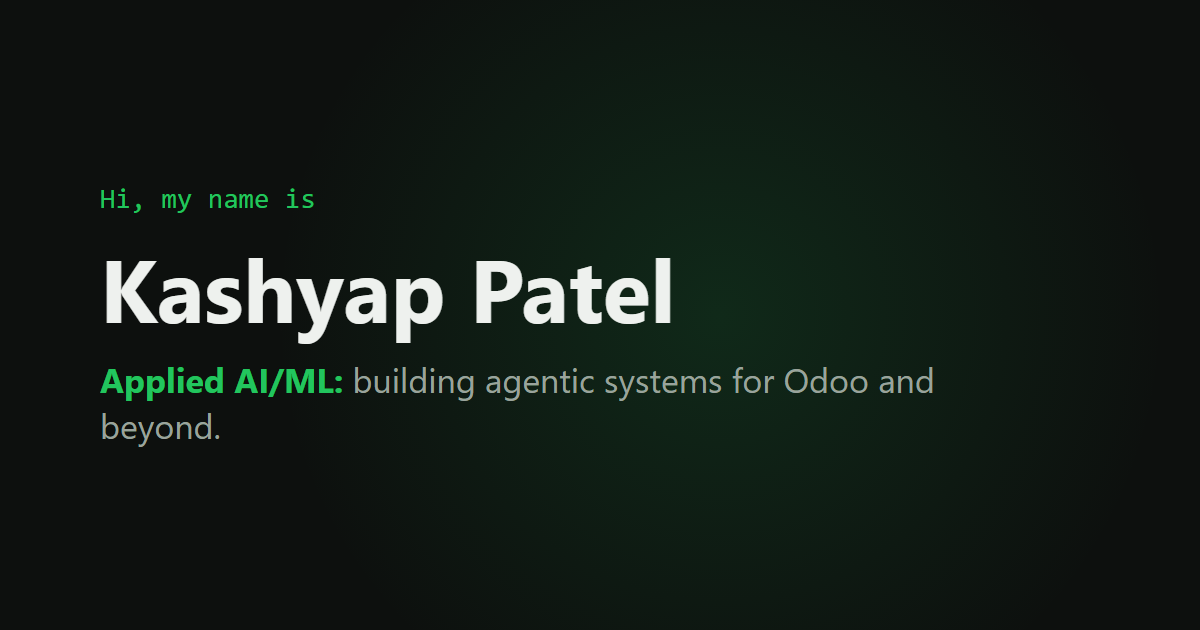
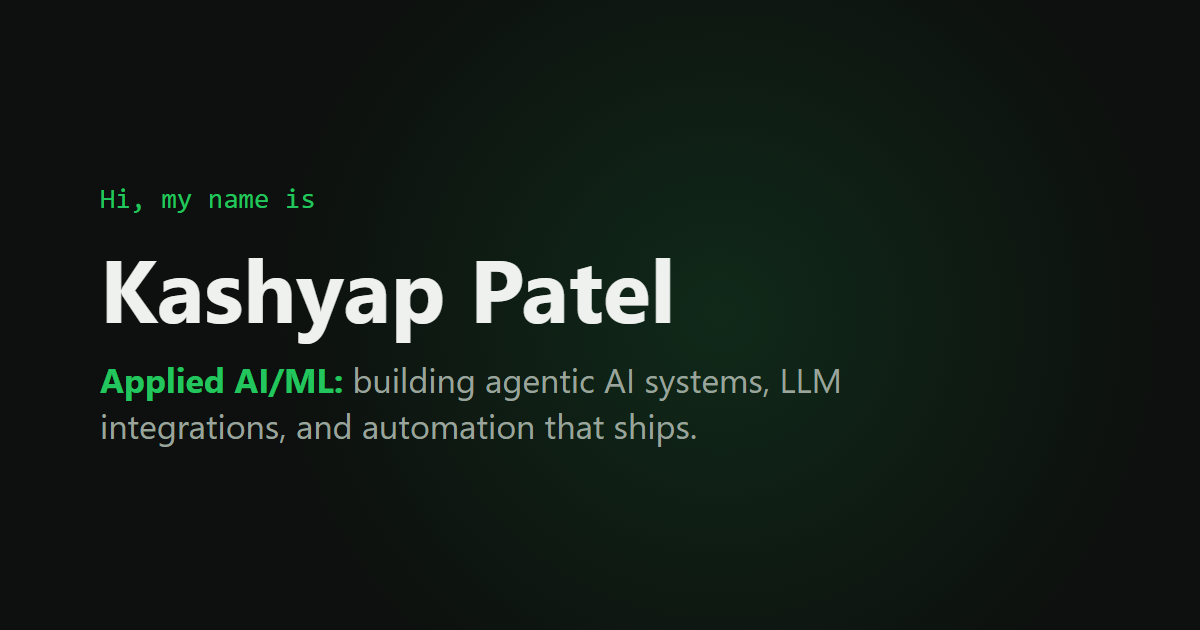
Broaden hero tagline beyond Odoo-specific framing

Changed region(s): [[0.0925, 0.6635, 0.5858, 0.7238], [0.4933, 0.573, 0.7708, 0.6333]]

diff --git a/index.html b/index.html
@@ -47,7 +47,7 @@
 <header class="hero" id="hero">
   <p class="hero-eyebrow">Hi, my name is</p>
   <h1 class="hero-name">Kashyap Patel.</h1>
-  <p class="hero-tagline">Applied AI/ML: building agentic systems for Odoo and beyond.</p>
+  <p class="hero-tagline">Applied AI/ML: building agentic AI systems, LLM integrations, and automation that ships.</p>
   <p class="hero-intro">
     MCA candidate directing AI-assisted builds of real, working software,
     from a Model Context Protocol server for Odoo to Android BLE accessibility tooling.

diff --git a/og-image-template.html b/og-image-template.html
@@ -63,6 +63,6 @@
   <div class="glow"></div>
   <p class="eyebrow">Hi, my name is</p>
   <h1 class="name">Kashyap Patel</h1>
-  <p class="tagline"><strong>Applied AI/ML:</strong> building agentic systems for Odoo and beyond.</p>
+  <p class="tagline"><strong>Applied AI/ML:</strong> building agentic AI systems, LLM integrations, and automation that ships.</p>
 </body>
 </html>
